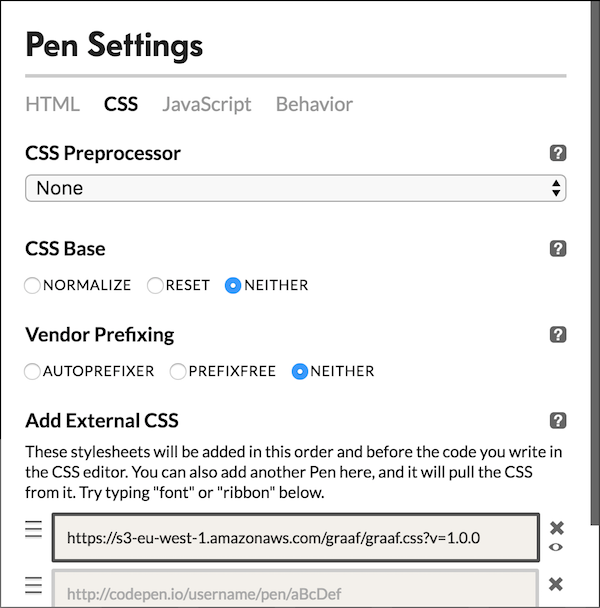
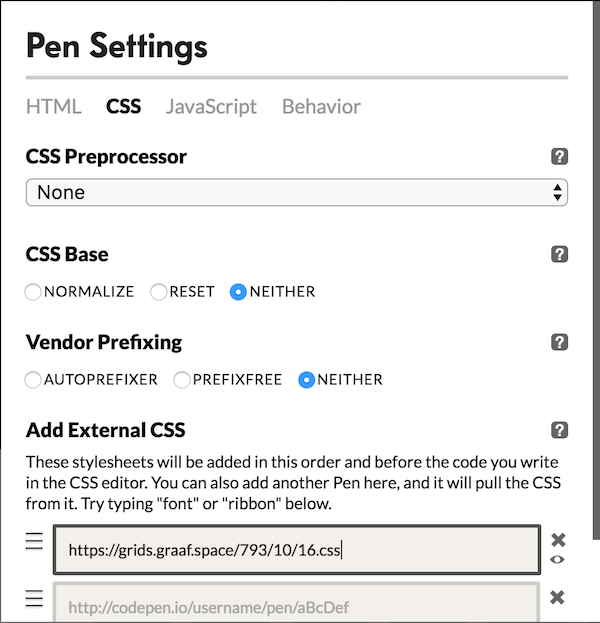
Update site with Graaf API :D

diff --git a/gulpfile.js b/gulpfile.js
@@ -18,98 +18,98 @@ var currentGrids = [
     width: 976,
     columns: 12,
     gutter: 16,
-    url: 'https://s3-eu-west-1.amazonaws.com/graaf/bbc.css'
+    url: 'https://grids.graaf.space/bbc.css'
   },
   {
     name: 'Bootstrap',
     width: 1170,
     columns: 12,
     gutter: 16,
-    url: 'https://s3-eu-west-1.amazonaws.com/graaf/bootstrap.css'
+    url: 'https://grids.graaf.space/bootstrap.css'
   },
   {
     name: 'CNN Inter.',
     width: 1100,
     columns: 7,
     gutter: 20,
-    url: 'https://s3-eu-west-1.amazonaws.com/graaf/cnn.css'
+    url: 'https://grids.graaf.space/cnn.css'
   },
   {
     name: 'Dribbble',
     width: 970,
     columns: 4,
     gutter: 30,
-    url: 'https://s3-eu-west-1.amazonaws.com/graaf/dribbble.css'
+    url: 'https://grids.graaf.space/dribbble.css'
   },
   {
     name: 'Github',
     width: 980,
     columns: 12,
     gutter: 20,
-    url: 'https://s3-eu-west-1.amazonaws.com/graaf/github.css'
+    url: 'https://grids.graaf.space/github.css'
   },
   {
     name: 'Graaf',
     width: 793,
     columns: 10,
     gutter: 16,
-    url: 'https://s3-eu-west-1.amazonaws.com/graaf/graaf.css'
+    url: 'https://grids.graaf.space/graaf.css'
   },
   {
     name: 'Harvard',
     width: 1176,
     columns: 12,
     gutter: 20,
-    url: 'https://s3-eu-west-1.amazonaws.com/graaf/harvard.css'
+    url: 'https://grids.graaf.space/harvard.css'
   },
   {
     name: 'HBO',
     width: 1184,
     columns: 12,
     gutter: 24,
-    url: 'https://s3-eu-west-1.amazonaws.com/graaf/hbo.css'
+    url: 'https://grids.graaf.space/hbo.css'
   },
   {
     name: 'Medium',
     width: 1000,
     columns: 3,
     gutter: 18,
-    url: 'https://s3-eu-west-1.amazonaws.com/graaf/medium.css'
+    url: 'https://grids.graaf.space/medium.css'
   },
   {
     name: 'NY Times',
     width: 970,
     columns: 5,
     gutter: 16,
-    url: 'https://s3-eu-west-1.amazonaws.com/graaf/nytimes.css'
+    url: 'https://grids.graaf.space/nytimes.css'
   },
   {
     name: 'Product Hunt',
     width: 1070,
     columns: 8,
     gutter: 20,
-    url: 'https://s3-eu-west-1.amazonaws.com/graaf/producthunt.css'
+    url: 'https://grids.graaf.space/producthunt.css'
   },
   {
     name: 'Soundcloud',
     width: 1180,
     columns: 12,
     gutter: 20,
-    url: 'https://s3-eu-west-1.amazonaws.com/graaf/soundcloud.css'
+    url: 'https://grids.graaf.space/soundcloud.css'
   },
   {
     name: 'The guardian',
     width: 1100,
     columns: 14,
     gutter: 20,
-    url: 'https://s3-eu-west-1.amazonaws.com/graaf/theguardian.css'
+    url: 'https://grids.graaf.space/theguardian.css'
   },
   {
     name: 'Twitter',
     width: 1190,
     columns: 4,
     gutter: 10,
-    url: 'https://s3-eu-west-1.amazonaws.com/graaf/twitter.css'
+    url: 'https://grids.graaf.space/twitter.css'
   }
 ];
 

diff --git a/site/graaf.js b/site/graaf.js
@@ -5,7 +5,7 @@ function guideGrid(el) {
     case 0:
       // Add link
       var link = document.createElement('link');
-      link.href = '//s3-eu-west-1.amazonaws.com/graaf/graaf.css';
+      link.href = 'https://grids.graaf.space/graaf.css';
       link.rel = 'stylesheet';
       link.media = 'all';
       link.type = 'text/css';
